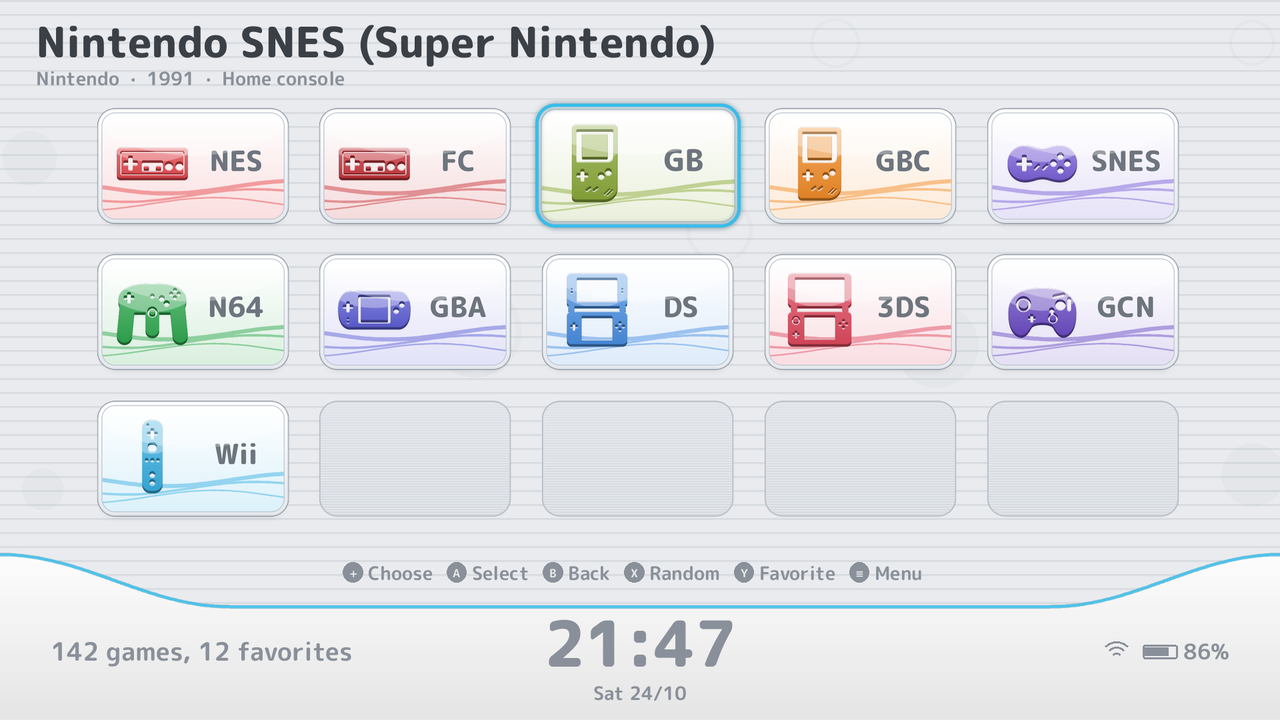
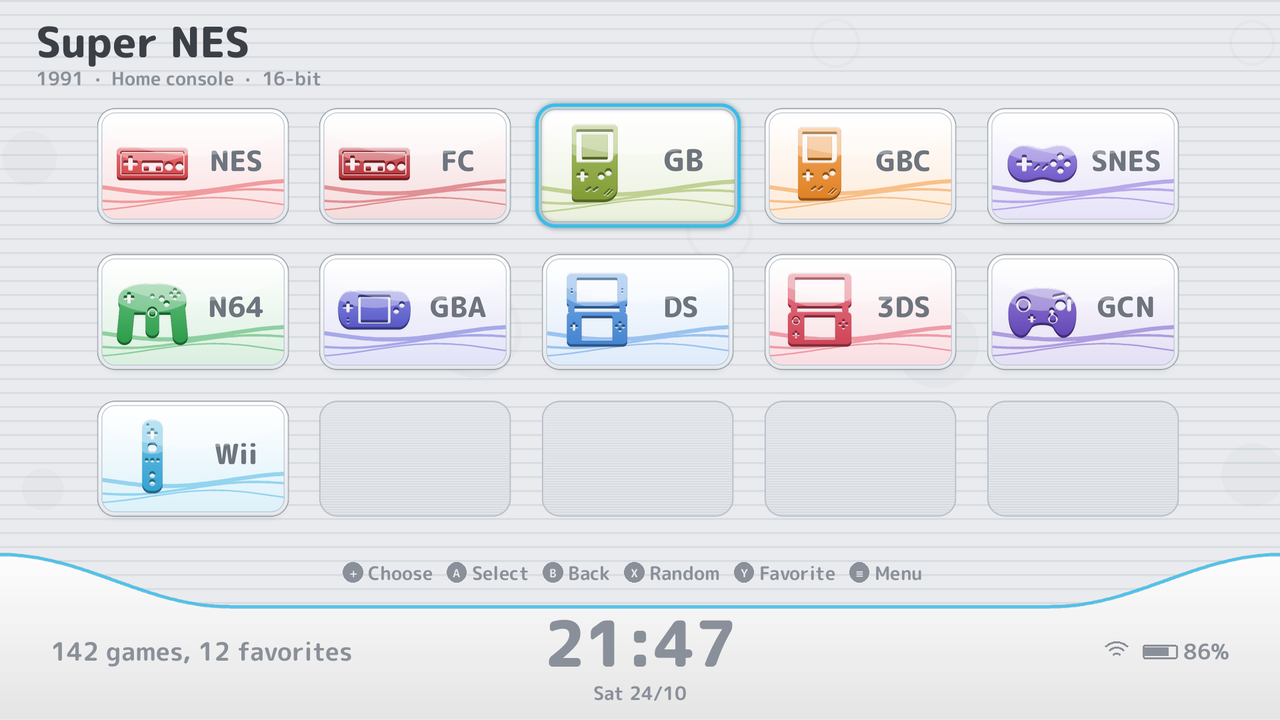
Shorter README, no Nintendo name in the previews

Changed region(s): [[0.0312, 0.0306, 0.5625, 0.1222]]

diff --git a/tools/preview.py b/tools/preview.py
@@ -15,8 +15,8 @@ ITEMS = [99]
 ROOT = sys.argv[2]
 OUTDIR = sys.argv[3]
 H = 1080
-SAMPLE = dict(theme="snes", full="Nintendo SNES (Super Nintendo)", count="142 games, 12 favorites",
-              info="Nintendo  ·  1991  ·  Home console", game="Stellar Quest: The Lost Kingdom",
+SAMPLE = dict(theme="snes", full="Super NES", count="142 games, 12 favorites",
+              info="1991  ·  Home console  ·  16-bit", game="Stellar Quest: The Lost Kingdom",
               dev="Moonbeam Works", genre="Platform", players="1-2", date="1995-11-21", playtime="12 hours",
               desc=("A bright side-scrolling adventure across floating islands. Collect star shards, rescue the "
                     "sky villagers and outsmart the clockwork king in over sixty stages packed with secrets, "

diff --git a/README.md b/README.md
@@ -1,175 +1,49 @@
-# esdeii — a console-menu theme pack for ES-DE
+# esdeii
 
-esdeii is a theme for [ES-DE (EmulationStation Desktop Edition)](https://es-de.org)
-inspired by the home menus of Nintendo's living-room, tablet and dual-screen
-consoles. One download gives you four looks, 14 colour schemes, icons for
-every system ES-DE supports and its own set of UI sounds. It is made and
-tested first of all for **ES-DE on Android**, but it is a normal ES-DE theme
-and also works on Windows, macOS and Linux.
+A console-menu style theme pack for [ES-DE](https://es-de.org). Four looks,
+14 colour schemes, icons for all 197 ES-DE systems and its own soft UI
+sounds. Made for ES-DE on Android, but works everywhere ES-DE runs.
 
-> **Heads-up: this theme pack is vibecoded.** All of it — the layouts, the
-> 197 system icons, the artwork, the sounds and this README — was made with
-> an AI assistant (Claude), directed and tested by me. If you'd rather not use
-> AI-made things, that's completely fine — just skip this one. 🙂
+> **This pack is vibecoded** — it was made with an AI assistant (Claude) and
+> tested by me. If you don't like AI-made stuff, feel free to skip it.
 
-*Not affiliated with Nintendo or any other console maker. All names and
-icons are original drawings made for this theme.*
+![Channels](previews/channels-systems.png)
+![Channels games](previews/channels-games.png)
+![Home](previews/home-systems.png)
+![Home games](previews/home-games.png)
+![Dual Grid](previews/dual-grid-systems.png)
+![Dual Row games](previews/dual-row-games.png)
 
-## The four looks
-
-| Look | What it is |
-|---|---|
-| **Channels** | a wall of wide channel tiles with empty slots, and a curved clock bar at the bottom with a big clock, the date, the game count and the battery |
-| **Home** | framed square tiles with a glowing cursor, page dots, a featured box in the corner and a dock with the button prompts |
-| **Dual Grid** | two screens: the system and a featured game on top, the systems as a grid of icons below |
-| **Dual Row** | two screens: the system and a featured game on top, the systems as a single row below |
-
-### Channels
-![Channels — systems](previews/channels-systems.png)
-![Channels — games](previews/channels-games.png)
-
-### Home
-![Home — systems](previews/home-systems.png)
-![Home — games](previews/home-games.png)
-
-### Dual Grid and Dual Row
-![Dual Grid — systems](previews/dual-grid-systems.png)
-![Dual Row — games](previews/dual-row-games.png)
-
-*Previews are mock-ups drawn from the real layout files with placeholder
-art, not screenshots from ES-DE, so fonts and spacing may differ slightly.*
+*Previews are mock-ups with placeholder art, not real screenshots.*
 
 ## Install
 
 1. Download **esdeii.zip** from the
-   [latest release](https://github.com/dovyyyyy/esdeii/releases/latest).
-2. Unzip it. You get a folder called **esdeii**.
-3. Copy that folder into the `themes` folder in your ES-DE data folder:
-   - **Android:** usually `Internal storage/ES-DE/themes/`
-   - **Windows / macOS / Linux:** `ES-DE/themes/` in your ES-DE data folder
-     (by default in your home folder).
-4. Restart ES-DE, open **Menu → UI Settings → Theme** and pick **ESDEII**.
+   [latest release](https://github.com/dovyyyyy/esdeii/releases/latest) and unzip it.
+2. Copy the **esdeii** folder into `ES-DE/themes/`
+   (on Android usually `Internal storage/ES-DE/themes/`).
+3. Restart ES-DE and pick **ESDEII** in *Menu → UI Settings → Theme*.
 
-To update, download the new release and replace the folder.
-If you used an early version, delete any old `esde3ds` or `esdeiiu` folders —
-those looks are now part of esdeii.
+## Options (Menu → UI Settings)
 
-## Settings (Menu → UI Settings)
+- **Theme variant** — the look (**Channels**, **Home**, **Dual Grid**,
+  **Dual Row**), games as a **Grid**, **Shelf** or **List**, and box art or
+  **3D** boxes.
+- **Color scheme** — 14 schemes, including light / dark with an accent
+  colour that matches each console.
+- **Font size**, **transitions** (*Smooth* or *Snappy* for slow devices)
+  and every common **aspect ratio** from 4:3 to 21:9.
 
-- **Theme variant** — the look, how games are shown and which box art to
-  use, e.g. *Channels · Grid* or *Dual Row · Shelf · 3D*:
-  - looks: **Channels**, **Home**, **Dual Grid**, **Dual Row**
-  - games as a **Grid** of icons, a **Shelf** of covers or a **List**
-  - normal **box art**, or **3D boxes** with *· 3D*. Each falls back to the
-    other, so games that only have one kind scraped still show their art.
-- **Theme color scheme** — Silver Menu, Cloud White, Ice White, Cosmo Black,
-  Flame Red, Aqua Blue, Mint Green, Lavender, Sunset Orange, Sakura Pink,
-  Midnight Blue, Retro Pocket, plus **Light / Dark + system colours**, where
-  the accent colour changes to match each console. In the Dual looks every
-  scheme also has its own background pattern.
-- **Theme font size** — extra small to extra large.
-- **Theme transitions** — *Smooth* (default: pages slide when you open a
-  system or go back) or *Snappy* (instant, best for slow devices).
-- **Theme aspect ratio** — leave it on Automatic. 16:9, 16:10, 3:2, 4:3,
-  5:3, 5:4, 8:7, 19.5:9, 20:9 and 21:9 are all included, so it fits phones,
-  handhelds, tablets and TVs.
-- The UI sounds can be turned off in ES-DE's **Sound settings**.
+For the best result, scrape box art (or 3D boxes), screenshots, videos,
+marquees and fan art.
 
-## What's in it
+## Building it yourself
 
-**Systems page**
-- Icons for all 197 systems ES-DE supports, each drawn after its real
-  console or controller, in three styles (wide channel tiles, framed tiles
-  and glossy icons).
-- A line with the maker, release year and type of every console, and the
-  number of games (and favourites).
-- **Empty slots** fill the rest of every grid, like blank channels.
-- **Featured game** (Home and Dual): a random game from the selected system.
-
-**Games page**
-- A big video screen: the game video starts after a moment, with the
-  scraped game logo in the corner. Before the video (or without one) it
-  shows the screenshot, title screen or mix image, and games without any of
-  those — Android apps, for example — show their box art.
-- Release date, players, developer, genre, last played, play time, rating,
-  badges and a description that scrolls slowly enough to read.
-- Faint artwork of the selected game (fan art, else the screenshot) behind
-  the page, fading in as you move. In the Dual looks the top screen is
-  filled edge to edge with the game's artwork, with the video on the left and
-  the details on a dark glass card on the right.
-- Headers over the artwork have a thin outline so they stay readable on any
-  custom art.
-
-**Everywhere**
-- Softly drifting bubbles in your colour scheme on the systems page, only in
-  free space — never over text, panels, the clock or the games. The games
-  pages have none, so nothing moves behind the details.
-- Rounded console-style lettering (M PLUS Rounded 1c).
-- Clock, date, battery and Wi-Fi; they hide while the ES-DE menu is open.
-- ES-DE always draws the clock, battery and button prompts in a fixed layer
-  on top that never slides, so the theme keeps the surfaces under them still:
-  the Channels clock bar and the Home dock stay put while the pages slide,
-  and in the Dual looks the clock sits in a strip above the two screens.
-
-## Sounds
-
-One soft, rounded family of UI sounds in the spirit of a tablet console's
-home menu, with a touch of phone-UI polish. They are all built from the same
-few pieces — a soft tap, warm notes that settle gently onto their pitch and
-a light air swell — in one key and the same small, warm room, with no harsh
-clicks or hiss, and levelled to the same loudness:
-
-- moving the cursor: a quiet soft tap (the same every time)
-- opening a system or game list: a tap and two short notes going up
-- going back: the same two notes going down
-- favouriting: a quick sparkle of four notes
-- starting a game: an airy rise into a soft, open chord
-
-## Media it uses
-
-- Grids and shelves: **box art** or **3D boxes** (your choice, each falling
-  back to the other).
-- Game screen: **video**, **screenshot** (then title screen, then mix image)
-  and the **marquee** (game logo).
-- Backdrop: **fan art**, then the **screenshot**.
-
-Scrape these with ES-DE's scraper to get the most out of the theme.
-
-## Performance
-
-- The bubbles are many small, short animations instead of one full-screen
-  one, so ES-DE draws their frames once and just replays them.
-- On a slow device pick the *Snappy* transitions.
-- The font only contains Latin, Greek, Cyrillic and kana to stay small;
-  other scripts (such as kanji) use ES-DE's built-in fallback fonts.
-- Every layout is checked against ES-DE's theme reference, so ES-DE doesn't
-  waste time logging bad theme properties.
-
-## Changing things / building it yourself
-
-- System icons are in `esdeii/systems/<style>/`, named after the ES-DE
-  system (`snes.png`, `n3ds.png` …). Replace any of them with your own PNG of
-  the same size.
-- The whole theme is generated by Python scripts in `tools/`: layouts in
-  `layouts.py`, icons in `icons.py` and `shapes.py`, sounds in `audio.py`,
-  other artwork and the small Lottie animations in `themeart.py`.
-  Rebuild with
-
-  ```
-  python3 tools/build.py . <font folder> <OFL.txt> [cache folder]
-  ```
-
-  where the font folder holds the M PLUS Rounded 1c TTFs from
-  [Google Fonts](https://github.com/google/fonts/tree/main/ofl/mplusrounded1c)
-  (if it doesn't exist, the fonts already in the theme are reused). It needs
-  Python 3 with Pillow, NumPy, SciPy and fontTools.
-- `tools/preview.py` draws the mock-up previews and `tools/validate.py`
-  checks the layouts against ES-DE's `THEMES.md`.
+Everything is generated by the Python scripts in `tools/`:
+`python3 tools/build.py . <font folder> <OFL.txt>` (needs Pillow, NumPy,
+SciPy and fontTools).
 
 ## Credits
 
-- M PLUS Rounded 1c font by the M+ and Rounded M+ Project Authors, under
-  the SIL Open Font License (`esdeii/assets/fonts/OFL.txt`).
-- Icons, artwork and sounds were generated for this theme by the scripts in
-  `tools/`; no samples or images from consoles or other themes are used.
-- Made with Claude (Anthropic) — see the note at the top.
+M PLUS Rounded 1c font under the SIL Open Font License. All icons, artwork
+and sounds were made for this theme. Not affiliated with any console maker.
